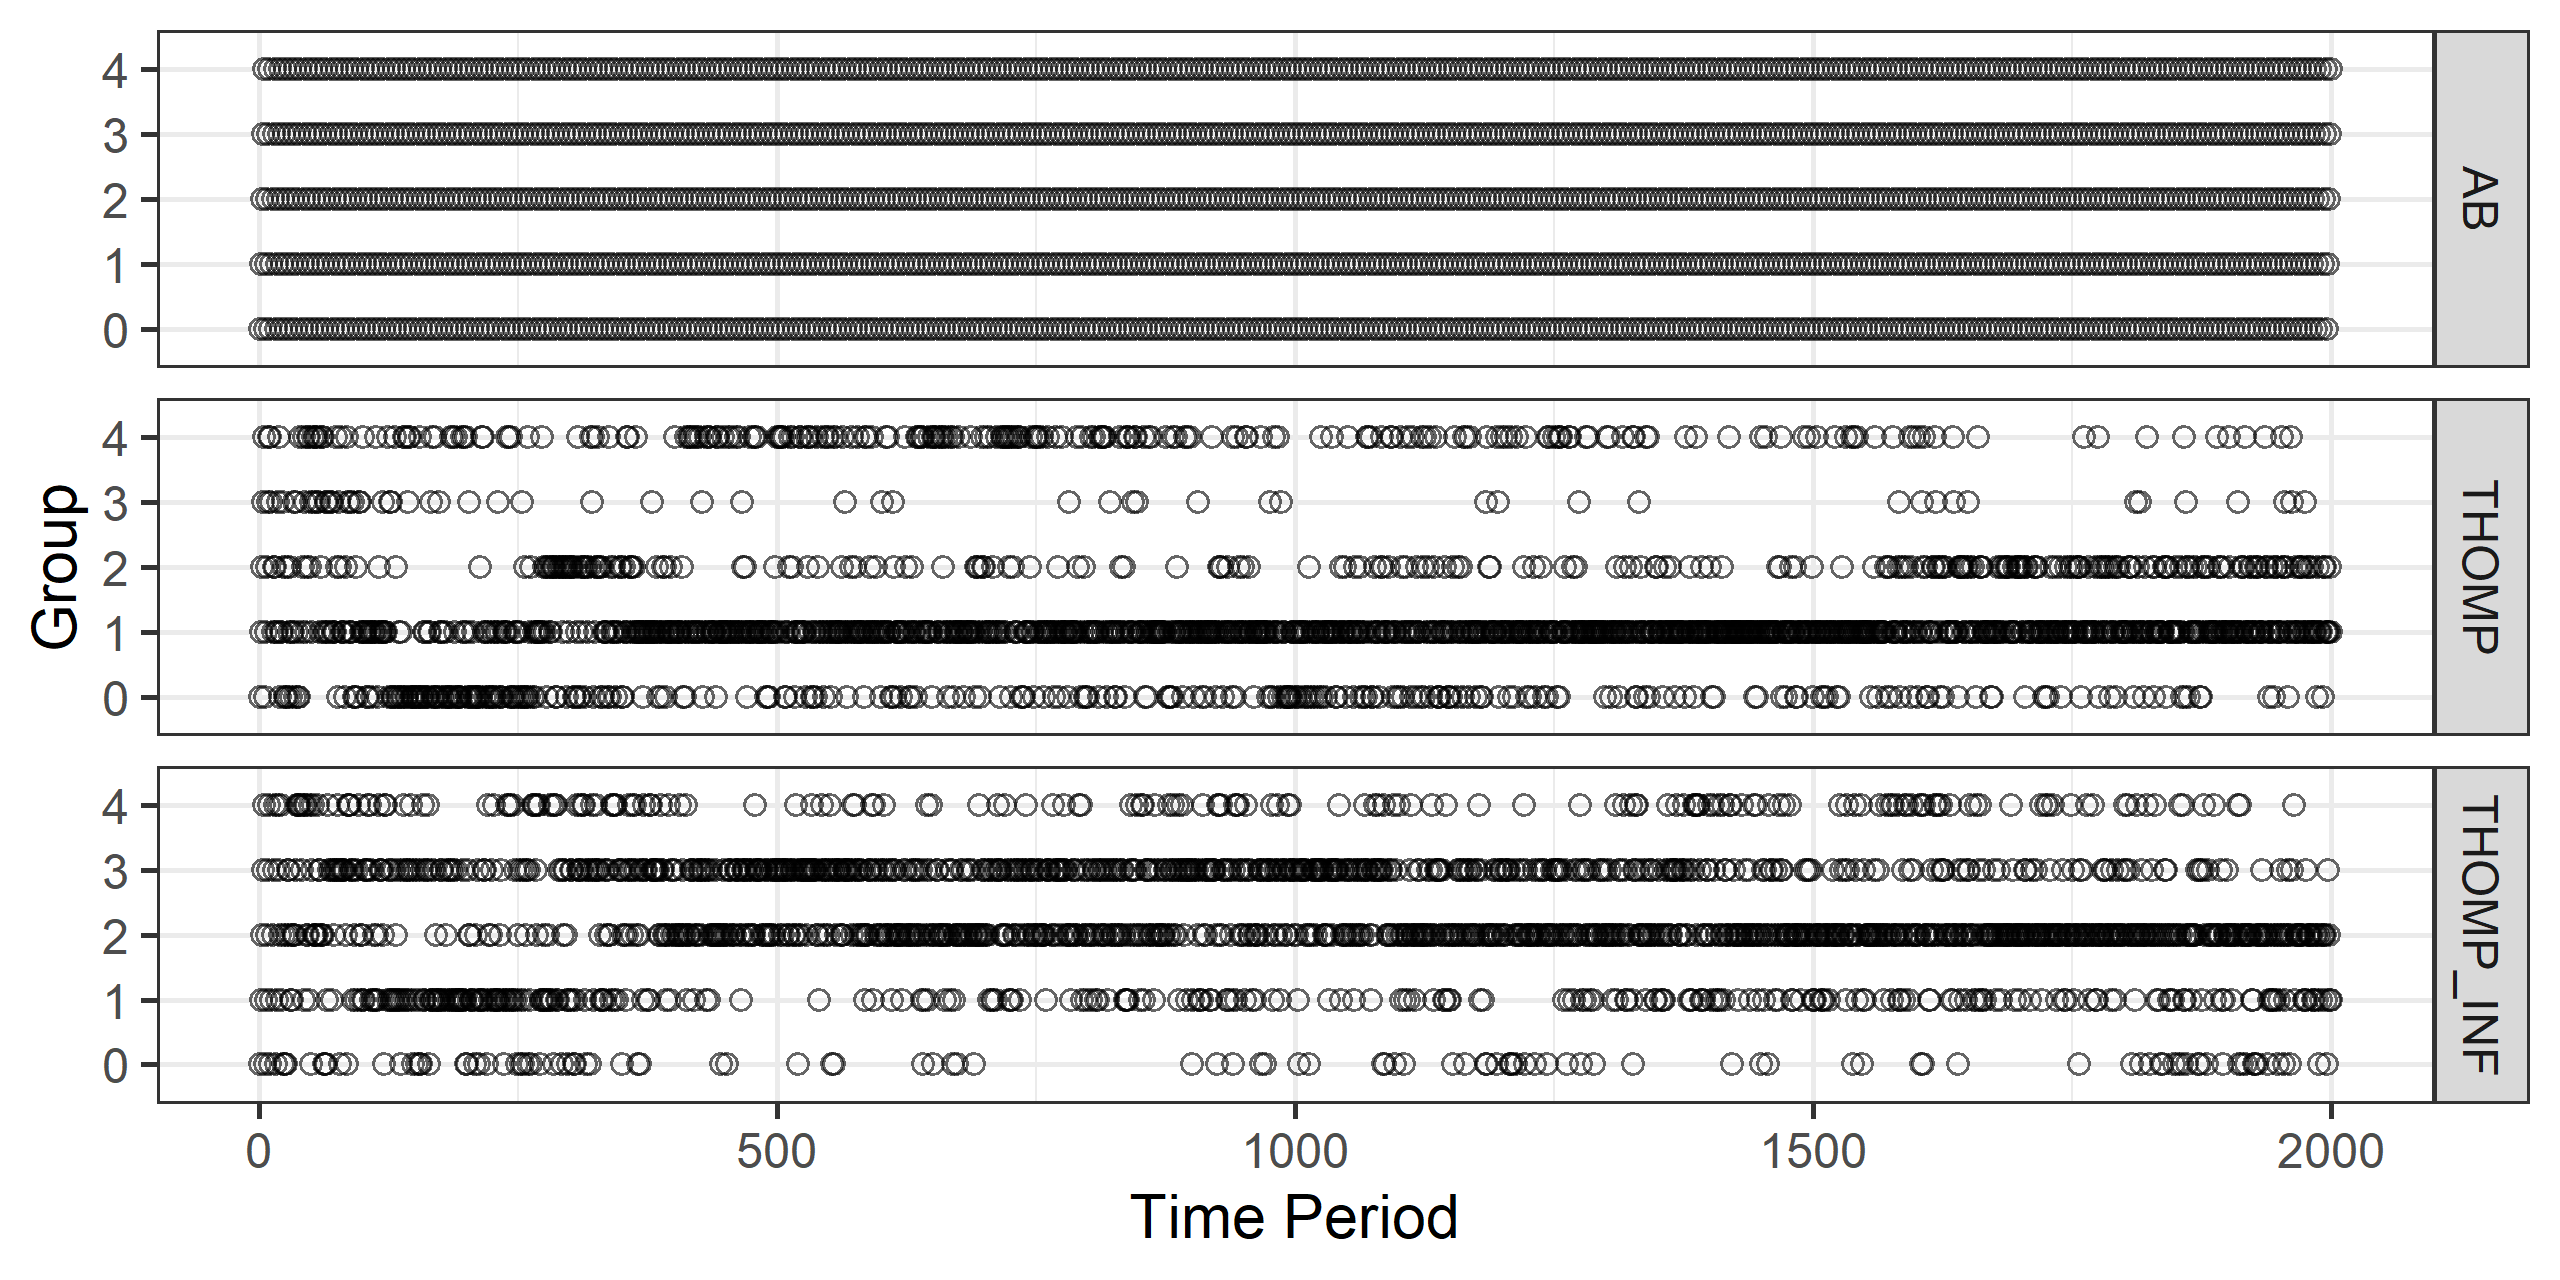
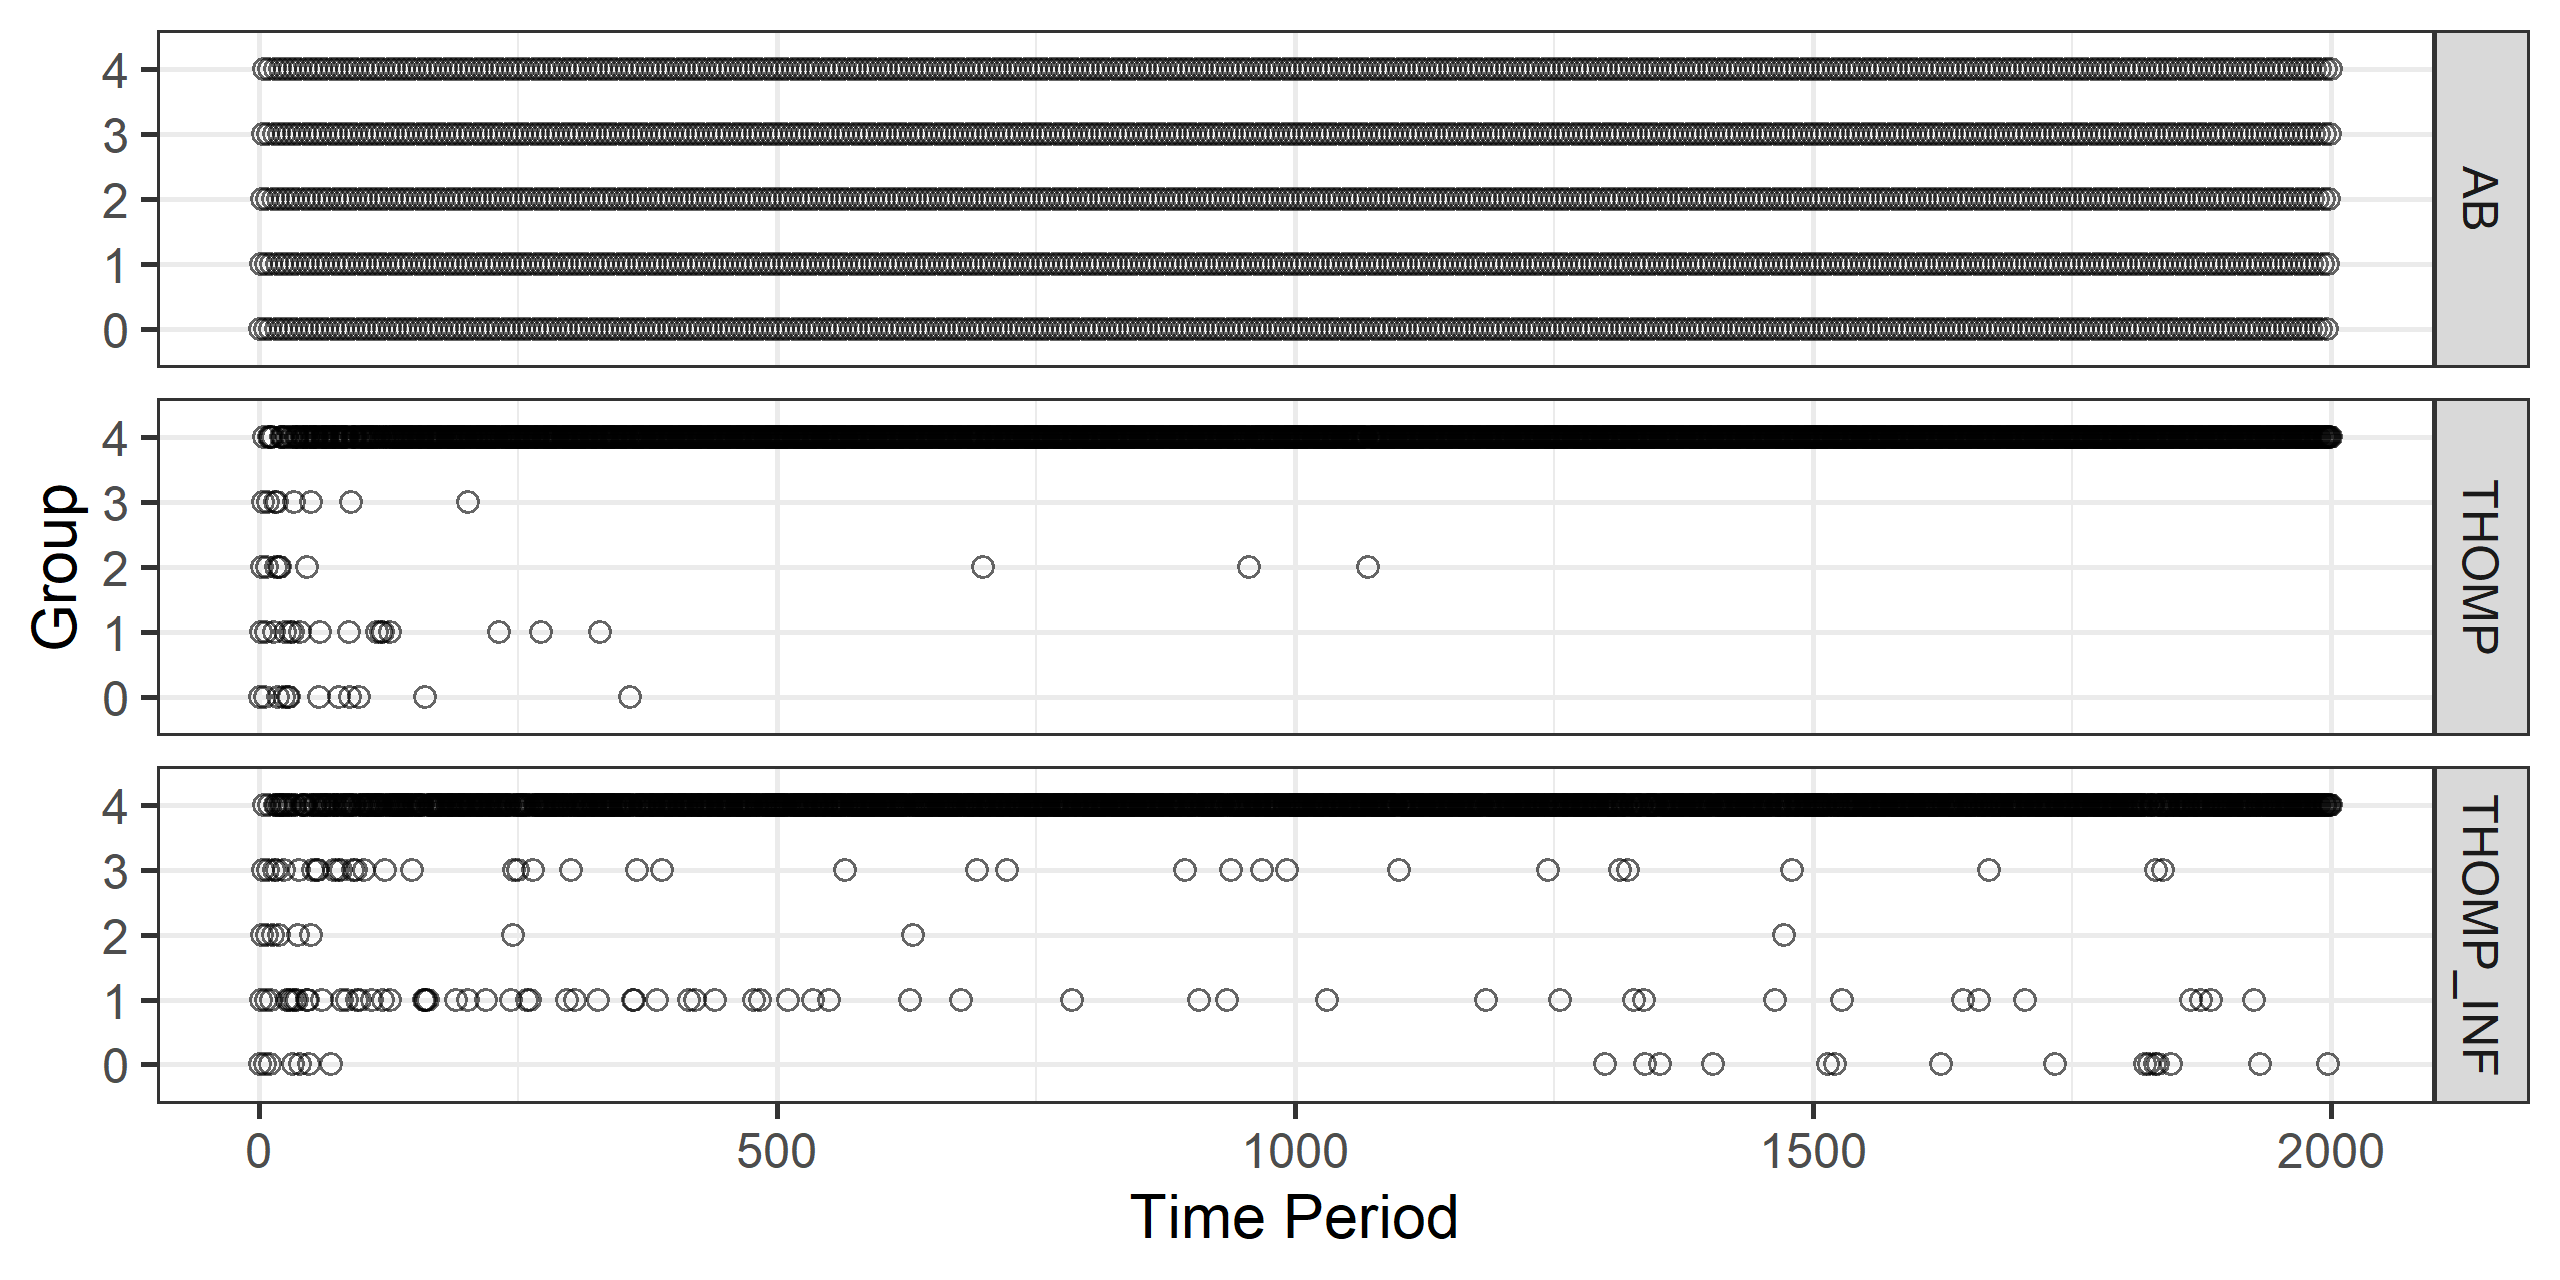
adding new means for xi analysis

diff --git a/run_sim.py b/run_sim.py
@@ -7,7 +7,7 @@ import pandas as pd
 def run_sim(file_path, true_means, true_vars=None, dist_type='Normal', xi=0.05):
     start_time = time.time()
     alg_list=['ab_bern', 'thomp_bern', 'thomp_athey_bern', 'thomp_inf_bern']
-    # alg_list = ['thomp_inf_bern']
+    alg_list = ['thomp_inf_bern']
 
     estimator_list=['aipw', 'eval_aipw', 'ipw']
 
@@ -31,8 +31,8 @@ if __name__ == '__main__':
     meta_analysis = False
     normal_analysis = False
     regret_order = False
-    xi_analysis = False
-    bernoulli_analysis = True
+    xi_analysis = True
+    bernoulli_analysis = False
     hsn = False
     lsn = False
     zsn = False
@@ -71,7 +71,7 @@ if __name__ == '__main__':
         true_vars = [2.84, 1.97, 2.62, 1, 2.06]
         a = run_sim('analysis/output/wise_regret_analysis_100.csv', true_means, true_vars=true_vars, dist_type='Normal')
     if xi_analysis:
-        true_means = np.array([0.157, 0.178, 0.199, 0.146, 0.129])
+        true_means = np.array([0.37098621, 0.33080171, 0.1699615, 0.18902466, 0.6743146])
         true_vars = true_means * (1 - true_means)
         xi = [0.01, 0.05, 0.1, 0.15, 0.2, 0.5, 0.8, 1.1, 1.5]
         for x in xi:
